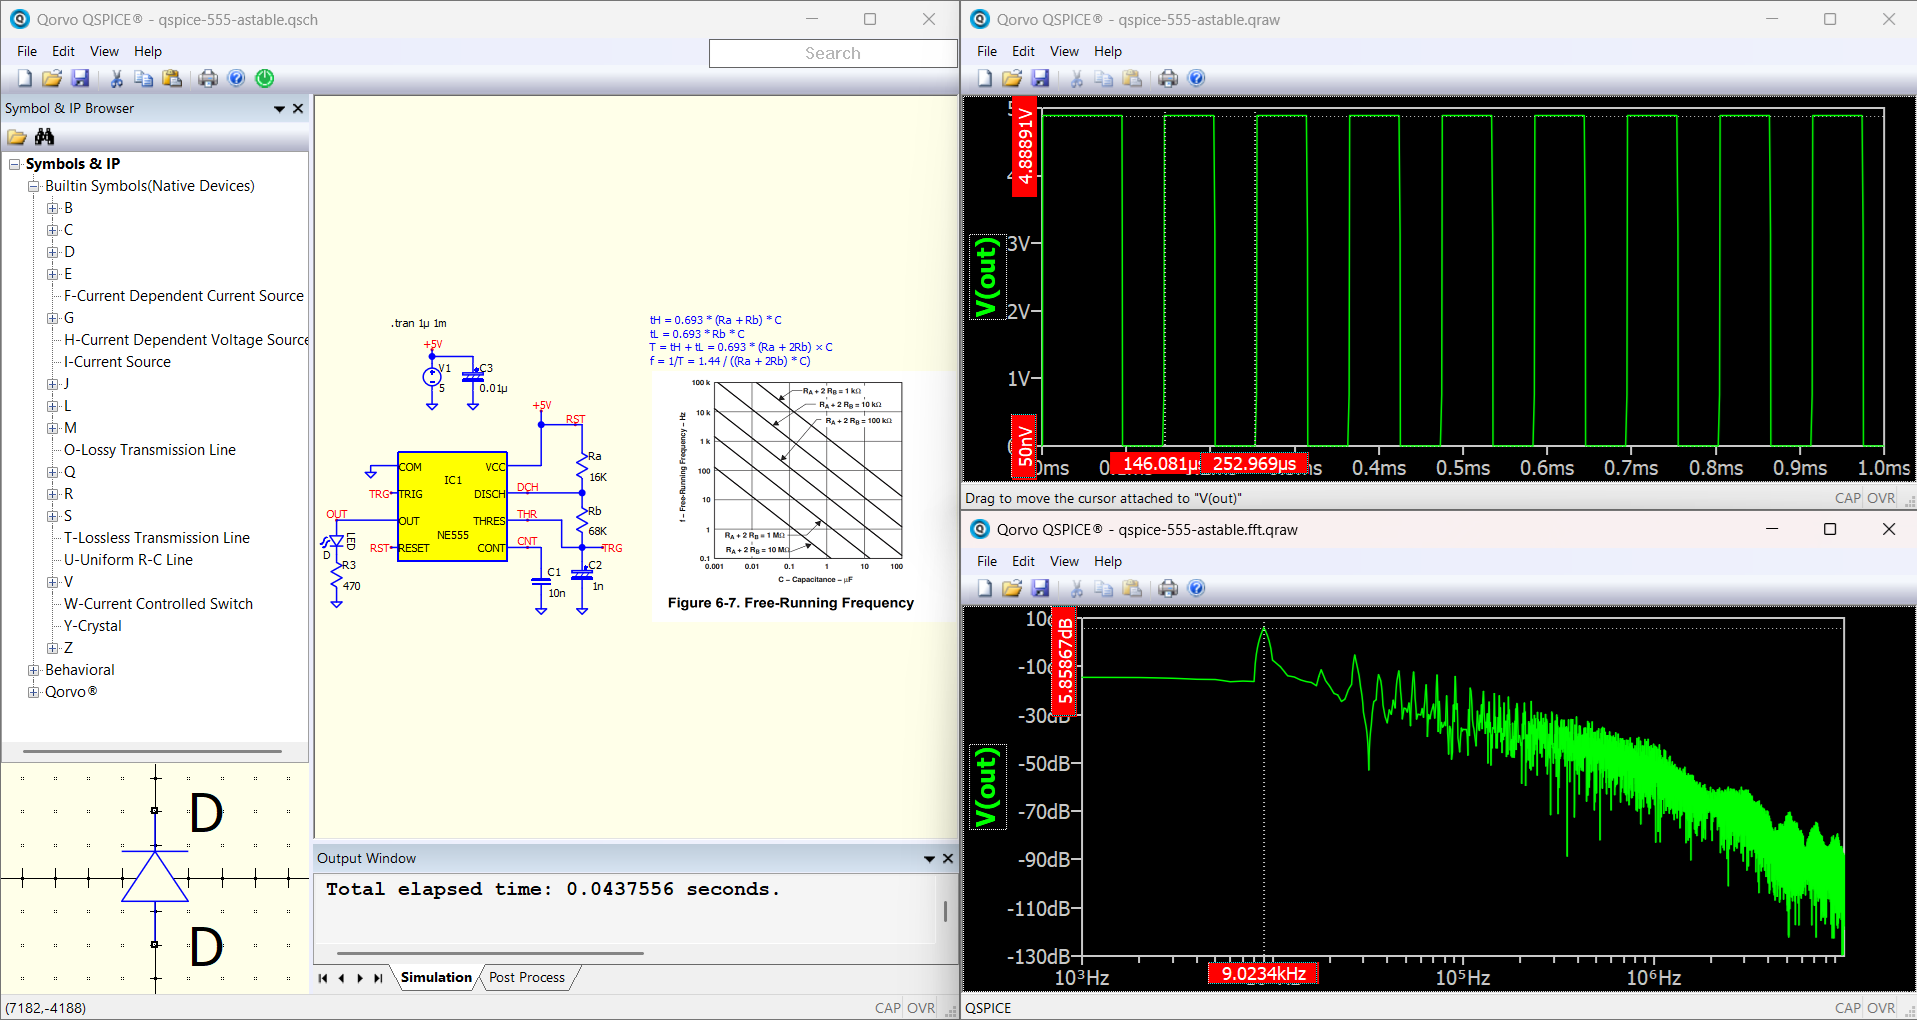
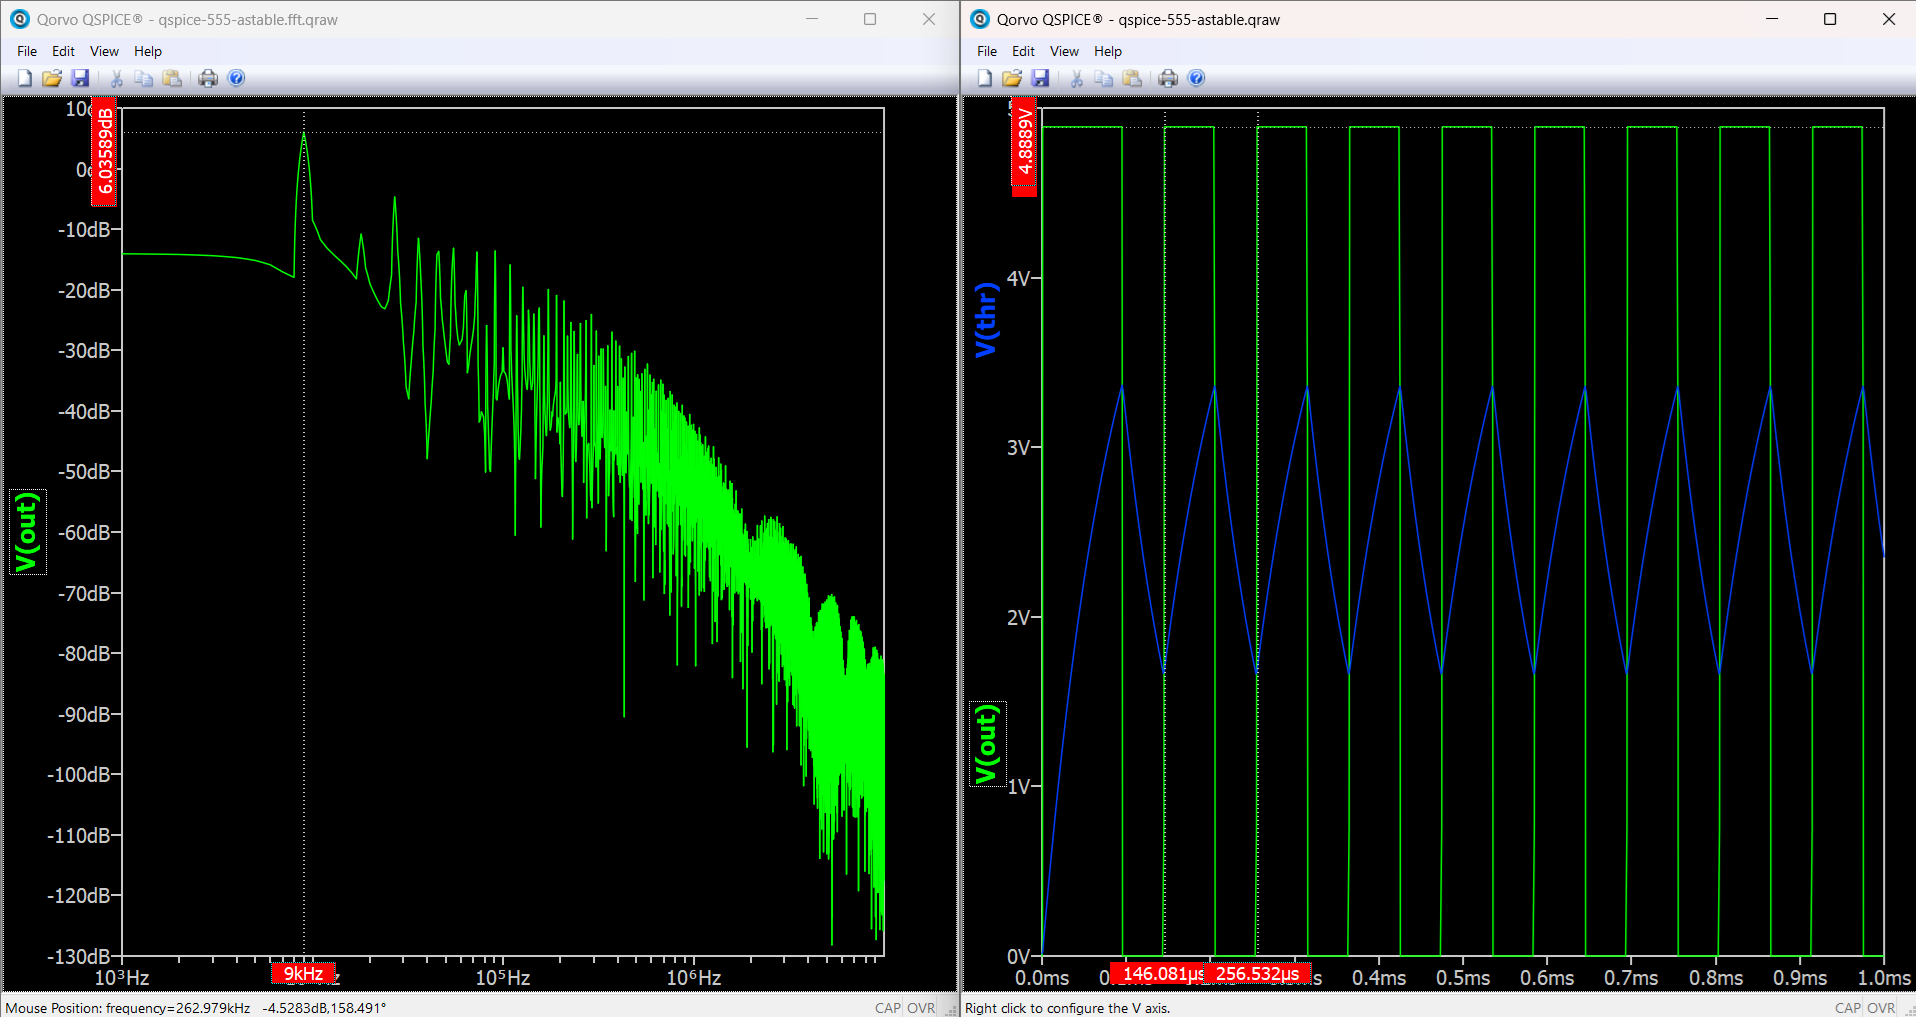
Adding description and results to README.

diff --git a/README.md b/README.md
@@ -11,16 +11,29 @@ The NE555 timer is arguably one of the most famous, versatile, and widely used i
 
 Despite being over 50 years old, the 555 timer remains a staple in both educational kits and professional industrial applications. Its enduring popularity comes from its robust design, it can handle a wide range of power supply voltages (typically from 4.5V to 15V) and can source or sink enough current to directly drive components like LEDs, small motors, and relays.
 
-## The Three Modes of Operation
-The true power of the NE555 lies in its flexibility. By changing how resistors and capacitors are connected to its eight pins, it can operate in three fundamental modes:
-
-### Astable Mode (Oscillator)
-In this mode, the 555 timer acts as a continuous oscillator, outputting a continuous stream of rectangular pulses. This is commonly used for flashing LEDs, generating audio tones, and providing clock signals for digital circuits.
+## The Two Modes of Operation
+The true power of the NE555 lies in its flexibility. By changing how resistors and capacitors are connected to its eight pins, it can operate in two fundamental modes:
 
 ### Monostable Mode (One-Shot) 
 Here, the timer acts as a "one-shot" pulse generator. When triggered by an external input, the 555 outputs a single pulse of a specific duration (determined by a single resistor and capacitor) before returning to its resting state. This is perfect for creating timers, delay circuits, and debounce switches.
 
-### Bistable Mode (Flip-Flop)
-In this configuration, the 555 acts like a simple flip-flop logic gate. It has two stable states (high and low) and transitions between them only when it receives specific trigger or reset signals.
+![Monostable operation](img/monostable-operation.png)
+
+### Astable Mode (Oscillator)
+In this mode, the 555 timer acts as a continuous oscillator, outputting a continuous stream of rectangular pulses. This is commonly used for flashing LEDs, generating audio tones, and providing clock signals for digital circuits.
+
+![Astable operation](img/astable-operation.png)
 
 Whether you are a hobbyist blinking your first LED or an engineer designing a complex control system, the NE555 serves as an excellent introduction to analog and digital signal.
+
+## Qspice Circuit Simulation
+
+### Monostable
+
+![Monostable Circuit](img/monostable-circuit.png)
+![Monostable Results](img/monostable-results.png)
+
+### Astable
+
+![Astable Circuit](img/astable-circuit.png)
+![Astable Results](img/astable-results.png)
